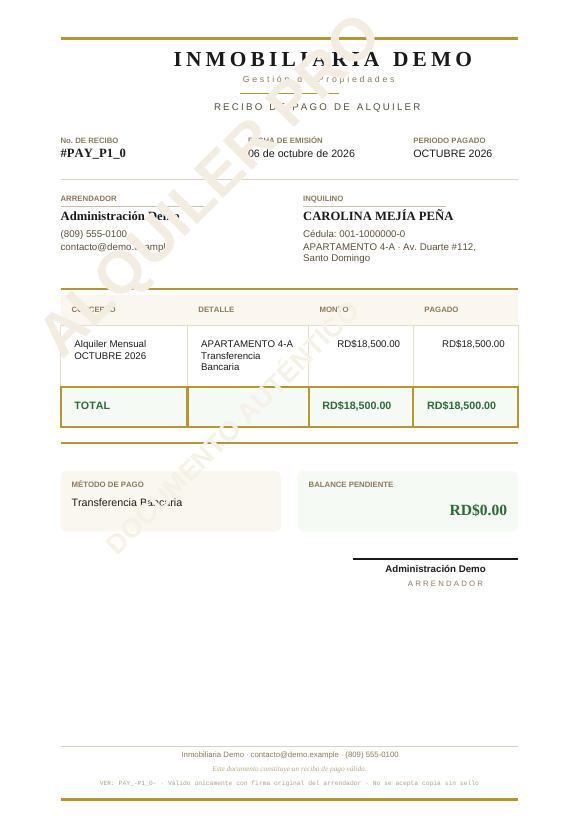
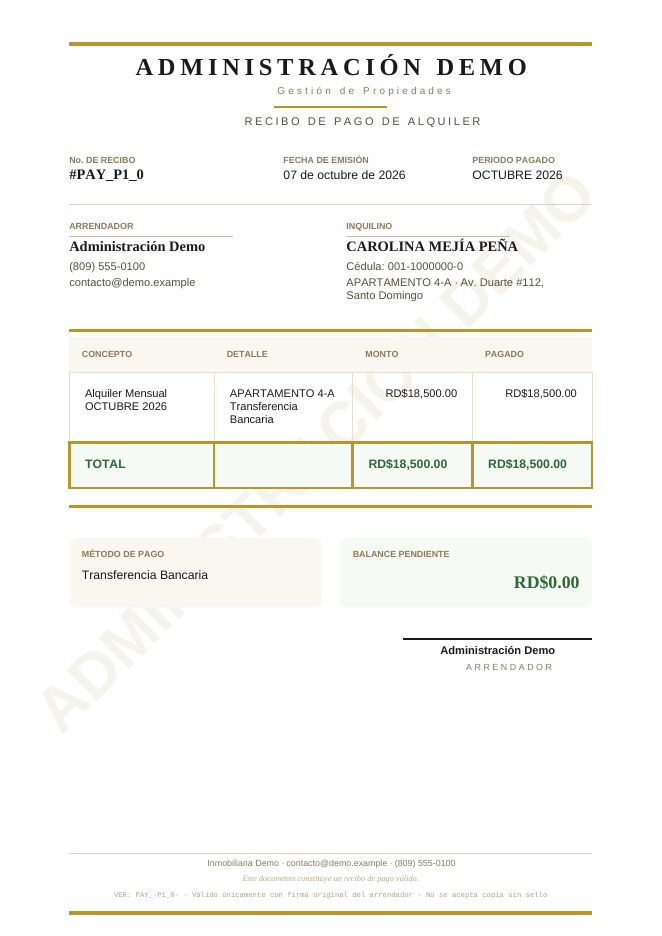
feat: nombre del usuario en recibos, reportes y cartas; marca de agua detrás del contenido (v1.9.0)
Claude-Session: https://claude.ai/code/session_01G4pFfz9BLdfPbAZYdKBdLJ

diff --git a/src/components/Settings/LetterSettings.jsx b/src/components/Settings/LetterSettings.jsx
@@ -7,6 +7,8 @@ import {
     buildLetterValues, renderTemplate, SAMPLE_LETTER_INPUT, generateCollectionLetter
 } from '../../lib/letterTemplate'
 import { normalizeText } from '../../lib/paymentStatus'
+import { useAuth } from '../../contexts/AuthContext'
+import { resolveDisplayName } from '../../lib/displayName'
 
 const Toggle = ({ label, checked, onChange }) => (
     <label className="flex items-center gap-2 text-sm text-gray-700 cursor-pointer">
@@ -16,7 +18,9 @@ const Toggle = ({ label, checked, onChange }) => (
 )
 
 export default function LetterSettings({ showToast }) {
-    const { settings, loading, updateSettings, uploadSignature } = useUserSettings()
+    const { settings: rawSettings, loading, updateSettings, uploadSignature } = useUserSettings()
+    const { user } = useAuth()
+    const settings = useMemo(() => (rawSettings ? { ...rawSettings, display_name: resolveDisplayName(rawSettings, user) } : { display_name: resolveDisplayName(null, user) }), [rawSettings, user])
     const [form, setForm] = useState(DEFAULT_LETTER)
     const [saving, setSaving] = useState(false)
     const bodyRef = useRef(null)
@@ -178,14 +182,18 @@ export default function LetterSettings({ showToast }) {
 
                 <div>
                     <p className="accessible-label">Vista previa (con datos de ejemplo)</p>
-                    <div className="bg-white border border-gray-300 shadow-md rounded-sm overflow-hidden text-[12px] leading-relaxed text-gray-800" data-testid="letter-preview">
+                    <div className="relative bg-white border border-gray-300 shadow-md rounded-sm overflow-hidden text-[12px] leading-relaxed text-gray-800" data-testid="letter-preview">
+                        {/* Watermark with the owner's name, behind the text (same as the PDF) */}
+                        <div aria-hidden="true" className="absolute inset-0 flex items-center justify-center pointer-events-none select-none z-0">
+                            <span className="font-extrabold uppercase whitespace-nowrap text-center" style={{ color: '#9a7d24', opacity: 0.09, transform: 'rotate(-45deg)', fontSize: values['Nombre del propietario'].length > 18 ? '34px' : '52px' }}>{values['Nombre del propietario']}</span>
+                        </div>
                         {form.letterhead && (
-                            <div className="px-6 py-3 text-white" style={{ background: '#9a7d24' }}>
-                                <p className="font-bold text-base">{values['Empresa']}</p>
+                            <div className="relative z-10 px-6 py-3 text-white" style={{ background: '#9a7d24' }}>
+                                <p className="font-bold text-base">{values['Nombre del propietario']}</p>
                                 <p className="text-[11px] opacity-90">{[settings?.phone, settings?.email].filter(Boolean).join('  ·  ') || 'Gestión de alquileres'}</p>
                             </div>
                         )}
-                        <div className="px-6 py-4 space-y-2">
+                        <div className="relative z-10 px-6 py-4 space-y-2">
                             <p className="text-right text-gray-500">{values['Fecha']}</p>
                             <div>
                                 <p className="font-bold">{values['Nombre del inquilino']}</p>
@@ -208,8 +216,8 @@ export default function LetterSettings({ showToast }) {
                                 <div className="pt-4">
                                     {signatureUrl && <img src={signatureUrl} alt="" style={{ maxHeight: '48px', maxWidth: '150px', objectFit: 'contain' }} />}
                                     <div className={`w-40 border-t border-gray-700 ${signatureUrl ? '' : 'mt-6'}`} />
-                                    <p className="font-bold">{values['Nombre del propietario'] || values['Empresa']}</p>
-                                    <p className="text-gray-500">{values['Nombre del propietario'] ? values['Empresa'] : 'Administración'}</p>
+                                    <p className="font-bold">{values['Nombre del propietario']}</p>
+                                    <p className="text-gray-500">{settings?.business_name && settings.business_name !== values['Nombre del propietario'] ? settings.business_name : 'Arrendador'}</p>
                                 </div>
                             )}
                         </div>

diff --git a/src/lib/pdfGenerator.js b/src/lib/pdfGenerator.js
@@ -3,7 +3,7 @@ import jsPDF from 'jspdf'
 import 'jspdf-autotable'
 import { format } from 'date-fns'
 import { es } from 'date-fns/locale'
-import { parseLocalDate } from './pdfHelpers'
+import { parseLocalDate, drawWatermark } from './pdfHelpers'
 
 const GOLD = [184, 150, 46]
 const DARK = [26, 26, 26]
@@ -48,12 +48,17 @@ export async function generateReceiptPDF(paymentOrList, property, tenant, userSe
     const pageWidth = doc.internal.pageSize.getWidth()
     const margin = 22
 
-    const businessName = userSettings.business_name || 'AlquilerPro'
-    const landlordName = userSettings.landlord_name || ''
+    // Name shown on the document: landlord name, else account name (resolved in AppContext)
+    const ownerName = userSettings.display_name || userSettings.landlord_name || 'Alquiler Pro'
+    const businessName = userSettings.business_name || ownerName
+    const landlordName = ownerName
     const landlordPhone = userSettings.phone || ''
     const landlordEmail = userSettings.email || 'info@optimard.com'
     const footerNote = userSettings.invoice_footer || 'Este documento constituye un recibo de pago válido.'
     const signatureUrl = userSettings.signature_url || null
+
+    // === WATERMARK (first, so it stays behind everything) ===
+    drawWatermark(doc, ownerName)
 
     // === TOP GOLD RULE ===
     doc.setDrawColor(...GOLD)
@@ -64,7 +69,18 @@ export async function generateReceiptPDF(paymentOrList, property, tenant, userSe
     doc.setFont('times', 'bold')
     doc.setFontSize(22)
     doc.setTextColor(...DARK)
-    doc.text(businessName.toUpperCase(), pageWidth / 2, 24, { align: 'center', charSpace: 1.5 })
+    const headerName = ownerName.toUpperCase()
+    const tracking = 1.5
+    const available = pageWidth - margin * 2
+    let headerSize = 22
+    doc.setFontSize(headerSize)
+    // Shrink long names until they fit between the margins (letter-spacing included), then centre by hand
+    while (headerSize > 11 && doc.getTextWidth(headerName) + tracking * (headerName.length - 1) > available) {
+        headerSize -= 0.5
+        doc.setFontSize(headerSize)
+    }
+    const headerWidth = doc.getTextWidth(headerName) + tracking * (headerName.length - 1)
+    doc.text(headerName, (pageWidth - headerWidth) / 2, 24, { charSpace: tracking })
 
     doc.setFont('helvetica', 'normal')
     doc.setFontSize(9)
@@ -126,7 +142,7 @@ export async function generateReceiptPDF(paymentOrList, property, tenant, userSe
     doc.setFont('times', 'bold')
     doc.setFontSize(13)
     doc.setTextColor(...DARK)
-    doc.text(landlordName || 'Arrendador', margin, y)
+    doc.text(landlordName, margin, y, { maxWidth: colMid - margin - 6 })
     doc.text(tenant.name, colMid, y)
 
     y += 6
@@ -292,15 +308,6 @@ export async function generateReceiptPDF(paymentOrList, property, tenant, userSe
     doc.setDrawColor(...GOLD)
     doc.setLineWidth(1.2)
     doc.line(margin, footerY + 15, pageWidth - margin, footerY + 15)
-
-    // === ANTI-FORGERY DIAGONAL WATERMARK ===
-    doc.setFont('helvetica', 'bold')
-    doc.setFontSize(62)
-    doc.setTextColor(242, 237, 224)
-    doc.text('ALQUILER PRO', pageWidth / 2, doc.internal.pageSize.getHeight() * 0.44, { align: 'center', angle: 45 })
-    doc.setFontSize(28)
-    doc.setTextColor(245, 241, 231)
-    doc.text('DOCUMENTO AUTÉNTICO', pageWidth / 2, doc.internal.pageSize.getHeight() * 0.68, { align: 'center', angle: 45 })
 
     const suffix = list.length > 1 ? `${list.length}-meses` : format(parseLocalDate(payment.payment_month), 'MMM-yyyy', { locale: es })
     doc.save(`Recibo_${(tenant.name || 'inquilino').split(' ')[0]}_${suffix}.pdf`)

diff --git a/src/lib/letterTemplate.js b/src/lib/letterTemplate.js
@@ -2,7 +2,7 @@ import jsPDF from 'jspdf'
 import autoTable from 'jspdf-autotable'
 import { addDays, format } from 'date-fns'
 import { es } from 'date-fns/locale'
-import { PDF_COLORS, money, dateLabel } from './pdfHelpers'
+import { PDF_COLORS, money, dateLabel, drawWatermark } from './pdfHelpers'
 import { normalizeText, monthKeyOf, hasMoney } from './paymentStatus'
 import { loadImageAsDataUrl } from './pdfGenerator'
 
@@ -80,6 +80,7 @@ const longDate = (d) => format(d, "d 'de' MMMM 'de' yyyy", { locale: es })
 
 /** Values for every variable, from one tenant's current situation. */
 export function buildLetterValues({ property, tenant, building, status, settings = {}, today = new Date() }) {
+    const ownerName = settings.display_name || settings.landlord_name || 'Alquiler Pro'
     return {
         'Nombre del inquilino': tenant?.name || '',
         'Cédula': tenant?.identity_number || '',
@@ -92,8 +93,8 @@ export function buildLetterValues({ property, tenant, building, status, settings
         'Renta mensual': money(property?.monthly_rent),
         'Fecha': longDate(today),
         'Fecha límite': longDate(addDays(today, 5)),
-        'Nombre del propietario': settings.landlord_name || '',
-        'Empresa': settings.business_name || 'Alquiler Pro',
+        'Nombre del propietario': ownerName,
+        'Empresa': settings.business_name || ownerName,
         'Teléfono': settings.phone || '',
         'Correo': settings.email || ''
     }
@@ -136,6 +137,10 @@ export async function generateCollectionLetter({ property, tenant, building, sta
     const w = doc.internal.pageSize.getWidth()
     const margin = 22
     let y = 24
+    const ownerName = values['Nombre del propietario']
+
+    // Watermark first so it stays behind the text
+    drawWatermark(doc, ownerName)
 
     if (cfg.letterhead) {
         doc.setFillColor(...PDF_COLORS.brand)
@@ -143,7 +148,7 @@ export async function generateCollectionLetter({ property, tenant, building, sta
         doc.setTextColor(255, 255, 255)
         doc.setFont('helvetica', 'bold')
         doc.setFontSize(16)
-        doc.text(values['Empresa'], margin, 14)
+        doc.text(ownerName, margin, 14)
         doc.setFont('helvetica', 'normal')
         doc.setFontSize(9)
         const contact = [userSettings.phone, userSettings.email].filter(Boolean).join('  ·  ')
@@ -228,11 +233,11 @@ export async function generateCollectionLetter({ property, tenant, building, sta
         doc.setFont('helvetica', 'bold')
         doc.setFontSize(10)
         doc.setTextColor(...PDF_COLORS.ink)
-        doc.text(values['Nombre del propietario'] || values['Empresa'], margin, y + 5)
+        doc.text(ownerName, margin, y + 5)
         doc.setFont('helvetica', 'normal')
         doc.setFontSize(8.5)
         doc.setTextColor(...PDF_COLORS.muted)
-        doc.text(values['Nombre del propietario'] ? values['Empresa'] : 'Administración', margin, y + 10)
+        doc.text(userSettings.business_name && userSettings.business_name !== ownerName ? userSettings.business_name : 'Arrendador', margin, y + 10)
     }
 
     doc.setFontSize(8)

diff --git a/src/lib/pdfHelpers.js b/src/lib/pdfHelpers.js
@@ -1,5 +1,6 @@
 import { format } from 'date-fns'
 import { es } from 'date-fns/locale'
+import { initialsOf } from './displayName'
 
 export const PDF_COLORS = {
     brand: [154, 125, 36],
@@ -42,11 +43,11 @@ export function drawHeader(doc, title, subtitle, brand = 'Alquiler Pro') {
     doc.setTextColor(...PDF_COLORS.brand)
     doc.setFont('helvetica', 'bold')
     doc.setFontSize(13)
-    doc.text((brand || 'AP').trim().slice(0, 2).toUpperCase(), 22, 19.5, { align: 'center' })
+    doc.text(initialsOf(brand), 22, 19.5, { align: 'center' })
 
     doc.setTextColor(255, 255, 255)
     doc.setFontSize(16)
-    doc.text(brand, 36, 16)
+    doc.text(brand, 36, 16, { maxWidth: w - 36 - 70 })
     doc.setFont('helvetica', 'normal')
     doc.setFontSize(9)
     doc.text('Gestión de alquileres', 36, 22)
@@ -85,4 +86,30 @@ export function drawField(doc, label, value, x, y, maxWidth = 80) {
     doc.setFontSize(10.5)
     doc.setTextColor(...PDF_COLORS.ink)
     doc.text(String(value || '-'), x, y + 5.5, { maxWidth })
+}
+
+/**
+ * Diagonal watermark with the owner's name. Call it BEFORE drawing any content so it stays
+ * behind the text; it is faint (low opacity) and sized to fit the page diagonal.
+ */
+export function drawWatermark(doc, text) {
+    const label = (text || '').trim().toUpperCase()
+    if (!label) return
+    const w = doc.internal.pageSize.getWidth()
+    const h = doc.internal.pageSize.getHeight()
+    doc.saveGraphicsState()
+    doc.setGState(new doc.GState({ opacity: 0.09 }))
+    doc.setFont('helvetica', 'bold')
+    doc.setTextColor(...PDF_COLORS.brand)
+    doc.setFontSize(100)
+    const maxLen = Math.min(w, h) * 1.15 // length available along the 45° diagonal
+    const fontSize = Math.max(18, Math.min(62, (100 * maxLen) / doc.getTextWidth(label)))
+    doc.setFontSize(fontSize)
+    const len = doc.getTextWidth(label)
+    // centre the rotated text on the page
+    const rad = Math.PI / 4
+    const x = w / 2 - (Math.cos(rad) * len) / 2
+    const y = h / 2 + (Math.sin(rad) * len) / 2
+    doc.text(label, x, y, { angle: 45 })
+    doc.restoreGraphicsState()
 }

diff --git a/src/contexts/AppContext.jsx b/src/contexts/AppContext.jsx
@@ -21,6 +21,8 @@ import PrintReceiptPrompt from '../components/Modals/PrintReceiptPrompt'
 import ReportModal from '../components/Modals/ReportModal'
 import AlertDrawer from '../components/AlertDrawer/AlertDrawer'
 import Toast from '../components/Common/Toast'
+import { useAuth } from './AuthContext'
+import { resolveDisplayName } from '../lib/displayName'
 
 const AppContext = createContext(null)
 
@@ -41,7 +43,10 @@ export function AppProvider({ children }) {
     const utilityHook = useUtilityReadings()
     const buildingsHook = useBuildings()
     const activityHook = useActivityLog()
-    const { settings } = useUserSettings()
+    const { settings: rawSettings } = useUserSettings()
+    const { user } = useAuth()
+    // Every PDF reads the name to show (header, owner, signature, watermark) from settings.display_name
+    const settings = useMemo(() => ({ ...(rawSettings || {}), display_name: resolveDisplayName(rawSettings, user) }), [rawSettings, user])
     const toastApi = useToast()
 
     const [refreshTrigger, setRefreshTrigger] = useState(0)

diff --git a/src/lib/displayName.js b/src/lib/displayName.js
@@ -1,0 +1,18 @@
+/**
+ * Name shown on receipts, reports and letters (header, owner block, signature, watermark):
+ * the landlord name from Ajustes → Factura, else the account name, else the email's local part.
+ */
+export function resolveDisplayName(settings, user) {
+    const clean = (v) => (typeof v === 'string' ? v.trim() : '')
+    return clean(settings?.landlord_name)
+        || clean(user?.user_metadata?.name)
+        || clean(user?.email?.split('@')[0])
+        || 'Alquiler Pro'
+}
+
+/** Up to two initials for the little badge in the report header. */
+export function initialsOf(name = '') {
+    const parts = name.trim().split(/\s+/).filter(Boolean)
+    if (parts.length === 0) return 'AP'
+    return (parts.length === 1 ? parts[0].slice(0, 2) : parts[0][0] + parts[1][0]).toUpperCase()
+}

diff --git a/src/lib/reportGenerator.js b/src/lib/reportGenerator.js
@@ -26,7 +26,8 @@ export function summarizePayments(payments) {
  * @param {{property, tenant, building, payments, periodLabel}} opts
  */
 export function generatePaymentsReport({ property, tenant, building, payments, periodLabel, settings = {} }) {
-    const brand = settings.business_name || 'Alquiler Pro'
+    // Same name as receipts and letters: landlord name, else account name (settings.display_name)
+    const brand = settings.display_name || settings.landlord_name || 'Alquiler Pro'
     const rows = [...payments]
         .filter(p => parseFloat(p.amount_paid) > 0)
         .sort((a, b) => a.payment_month.localeCompare(b.payment_month))

diff --git a/src/components/Layout/AppLayout.jsx b/src/components/Layout/AppLayout.jsx
@@ -14,7 +14,7 @@ export default function AppLayout() {
                     <ErrorBoundary key={location.pathname}><Outlet /></ErrorBoundary>
                 </main>
                 <footer className="text-center text-[11px] text-gray-400 py-3">
-                    &copy; {new Date().getFullYear()} Alquiler Pro · Desarrollado por Optimard · v1.8.0
+                    &copy; {new Date().getFullYear()} Alquiler Pro · Desarrollado por Optimard · v1.9.0
                 </footer>
             </div>
         </AppProvider>

diff --git a/CHANGELOG.md b/CHANGELOG.md
@@ -5,6 +5,13 @@ Todos los cambios notables de este proyecto serán documentados en este archivo.
 El formato está basado en [Keep a Changelog](https://keepachangelog.com/es-ES/1.0.0/),
 y este proyecto adhiere a [Semantic Versioning](https://semver.org/lang/es/).
 
+## [1.9.0] - 2026-10-07
+
+### Cambiado
+- **Tu nombre en los documentos**: recibos, reportes de pago y cartas de cobro muestran tu nombre (el *Nombre del arrendador* de Ajustes → Factura; si está vacío, el nombre de tu cuenta y, si tampoco, tu correo) en el encabezado, en el bloque "Arrendador" y en la línea de firma, en lugar de "Alquiler Pro" / "Arrendador".
+- **Marca de agua detrás del contenido**: ahora se dibuja primero (tenue, con tu nombre) y ya no tapa el texto; se eliminó la segunda marca fija "Documento auténtico". Las cartas de cobro también la llevan, y la vista previa de Ajustes la muestra.
+- Los nombres largos se reducen para caber entre los márgenes del encabezado.
+
 ## [1.8.0] - 2026-10-06
 
 ### Cambiado

diff --git a/docs/USER_GUIDE.md b/docs/USER_GUIDE.md
@@ -94,6 +94,8 @@ En el detalle de la propiedad, sección **Pagos → Selección múltiple**: marc
 
 ### Recibo opcional
 
+**Tu nombre en los documentos:** el encabezado, el bloque *Arrendador*, la firma y la marca de agua de recibos, reportes y cartas usan el *Nombre del arrendador* de **Ajustes → Factura** (si está vacío, el nombre de tu cuenta; si tampoco, tu correo). La marca de agua va detrás del texto.
+
 Al guardar, la app pregunta **¿Desea imprimir el recibo?** — *Sí, imprimir* descarga el PDF; *Ahora no* continúa sin imprimir. Siempre puedes imprimirlo después desde el historial (icono de impresora).
 
 ### Editar o eliminar un pago

diff --git a/docs/USER_GUIDE.en.md b/docs/USER_GUIDE.en.md
@@ -94,6 +94,8 @@ On the property detail, section **Pagos → Selección múltiple**: tick the pen
 
 ### Optional receipt
 
+**Your name on documents:** the header, the *Arrendador* block, the signature and the watermark of receipts, reports and letters use the *Nombre del arrendador* from **Ajustes → Factura** (if empty, your account name; if that is empty too, your email). The watermark sits behind the text.
+
 After saving, the app asks **¿Desea imprimir el recibo?** — *Sí, imprimir* downloads the PDF; *Ahora no* continues without printing. You can always print it later from the history (printer icon).
 
 ### Edit or delete a payment
